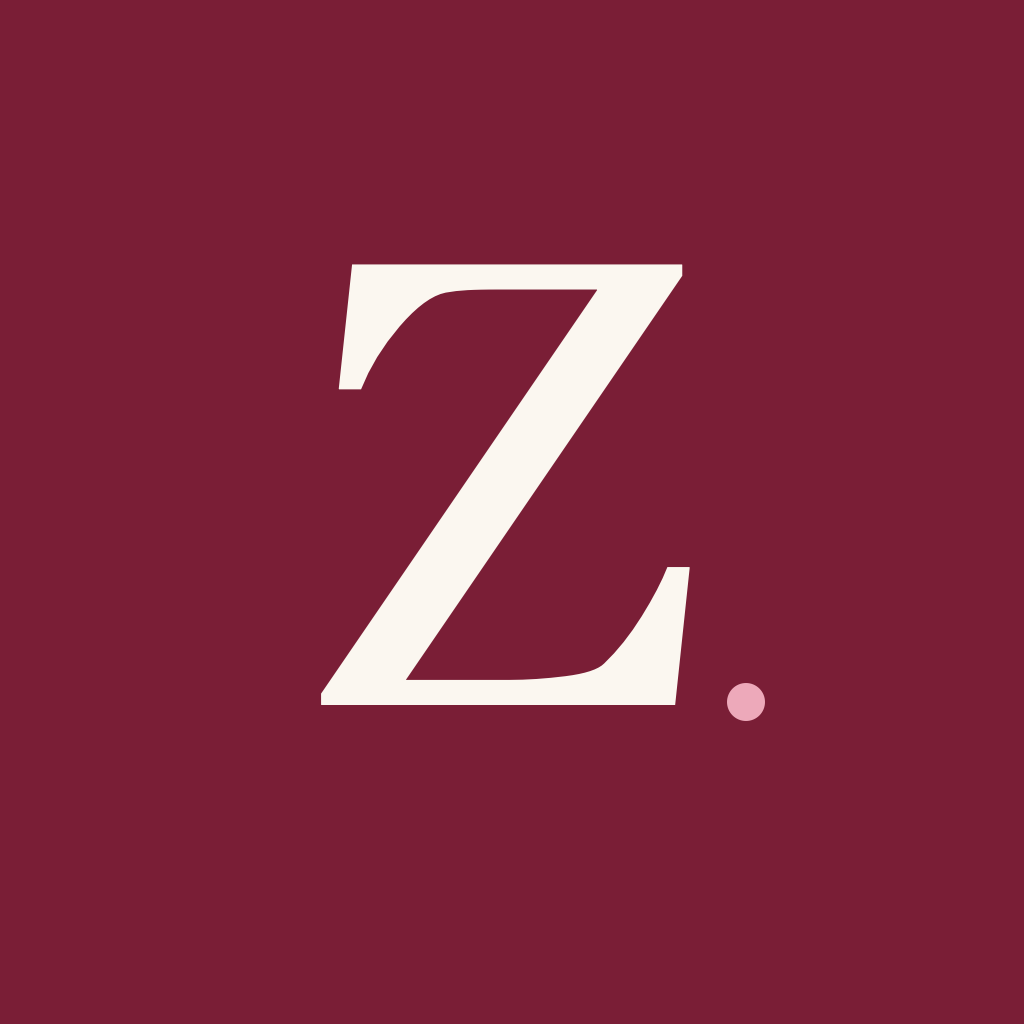
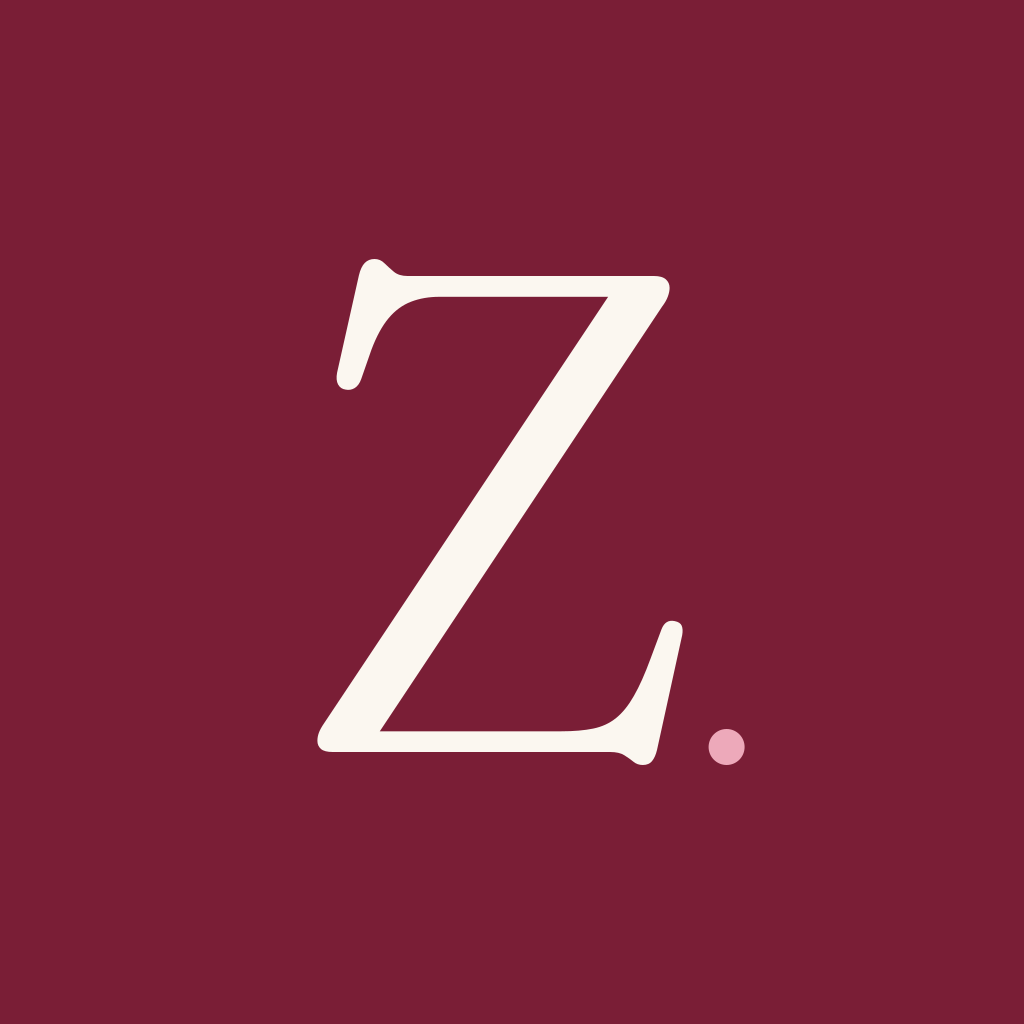
ZIV partout : icônes en vraie police Fraunces, réglages web déplacés de motek.* vers ziv.*, docs et commentaires sans KAPARA ni MOTEK
- Icône, favicon et logo redessinés depuis la police (plus de texte dépendant des polices installées), favicon 32 px qui montrait encore l'ancien M.
- Couleur de page web ivoire (thème Ivoire) au lieu du blanc.
- Migration unique des clés localStorage motek.* vers ziv.* (compte de démo, thème, langue, ville, formule conservés).
- Docs Supabase / Google mises à jour pour ziv-demo.vercel.app.

Claude-Session: https://claude.ai/code/session_01KSbKKK6PyfE8g78X4oWEzz

diff --git a/apps/mobile/src/storage-rename.ts b/apps/mobile/src/storage-rename.ts
@@ -1,0 +1,27 @@
+/**
+ * The app was renamed (MOTEK → ZIV) on 26/11/2026. On the web demo, settings
+ * and demo accounts were saved under `motek.*` keys: move them once to `ziv.*`
+ * so nobody loses their account, theme or language. Imported first in
+ * app/_layout.tsx, before any module reads storage. Native builds were never
+ * released under the old name, so only the web needs this.
+ */
+const OLD = 'motek.';
+const NEW = 'ziv.';
+
+try {
+  if (typeof localStorage !== 'undefined') {
+    const old: string[] = [];
+    for (let i = 0; i < localStorage.length; i++) {
+      const k = localStorage.key(i);
+      if (k?.startsWith(OLD)) old.push(k);
+    }
+    for (const k of old) {
+      const next = NEW + k.slice(OLD.length);
+      const v = localStorage.getItem(k);
+      if (v !== null && localStorage.getItem(next) === null) localStorage.setItem(next, v);
+      localStorage.removeItem(k);
+    }
+  }
+} catch { /* storage unavailable: nothing to move */ }
+
+export {};

diff --git a/apps/mobile/public/index.html b/apps/mobile/public/index.html
@@ -9,13 +9,13 @@
     <meta name="apple-mobile-web-app-capable" content="yes" />
     <meta name="mobile-web-app-capable" content="yes" />
     <meta name="apple-mobile-web-app-status-bar-style" content="default" />
-    <meta name="theme-color" content="#FFFFFF" />
+    <meta name="theme-color" content="#FBF7F0" />
     <link rel="apple-touch-icon" href="/apple-touch-icon.png" />
     <link rel="icon" type="image/svg+xml" href="/favicon.svg" />
     <link rel="icon" type="image/png" sizes="32x32" href="/favicon-32.png" />
     <link rel="manifest" href="/manifest.webmanifest" />
     <style id="expo-reset">
-      html, body { height: 100%; background: #FFFFFF; }
+      html, body { height: 100%; background: #FBF7F0; }
       body { overflow: hidden; }
       #root { display: flex; height: 100%; flex: 1; }
     </style>

diff --git a/apps/mobile/src/i18n/index.ts b/apps/mobile/src/i18n/index.ts
@@ -13,8 +13,8 @@ function webChoice(): LocaleCode | undefined {
   if (Platform.OS !== 'web' || typeof location === 'undefined') return undefined;
   try {
     const q = new URLSearchParams(location.search).get('lang') as LocaleCode | null;
-    if (q && SUPPORTED_LOCALES.includes(q)) { localStorage.setItem('motek.lang', q); return q; }
-    const saved = localStorage.getItem('motek.lang') as LocaleCode | null;
+    if (q && SUPPORTED_LOCALES.includes(q)) { localStorage.setItem('ziv.lang', q); return q; }
+    const saved = localStorage.getItem('ziv.lang') as LocaleCode | null;
     return saved && SUPPORTED_LOCALES.includes(saved) ? saved : undefined;
   } catch { return undefined; }
 }

diff --git a/apps/mobile/src/premium/store.ts b/apps/mobile/src/premium/store.ts
@@ -34,7 +34,7 @@ export type PaywallReason = 'like' | 'liveFilters' | 'picks' | 'seeLikes' | 'rew
 export const openPaywall = (reason: PaywallReason = 'browse') => router.push({ pathname: '/premium', params: { reason } });
 
 const KEY = ['plan'] as const;
-const LOCAL = 'motek.premium';
+const LOCAL = 'ziv.premium';
 const deviceTz = () => { try { return Intl.DateTimeFormat().resolvedOptions().timeZone || 'UTC'; } catch { return 'UTC'; } };
 const today = () => new Date().toLocaleDateString('en-CA');
 const nextMidnight = () => { const d = new Date(); d.setHours(24, 0, 0, 0); return d.toISOString(); };

diff --git a/apps/mobile/src/account/demo-account.ts b/apps/mobile/src/account/demo-account.ts
@@ -28,9 +28,9 @@ export interface DemoAccount {
 
 export type AccountStatus = 'loading' | 'signedIn' | 'signedOut';
 
-const CURRENT = 'motek.demo.current';
-const ACCOUNTS = 'motek.demo.accounts';
-const profileKey = (id: string) => `motek.demo.profile.${id}`;
+const CURRENT = 'ziv.demo.current';
+const ACCOUNTS = 'ziv.demo.accounts';
+const profileKey = (id: string) => `ziv.demo.profile.${id}`;
 
 let status: AccountStatus = 'loading';
 let current: DemoAccount | null = null;

diff --git a/apps/mobile/src/me/browse.ts b/apps/mobile/src/me/browse.ts
@@ -7,7 +7,7 @@ import { meStore, useMe } from './store';
  * profile's, free). Another city (a trip, a move to come) is a Plus/Cercle
  * feature; the picker checks the plan before setting it. Kept on this device.
  */
-const KEY = 'motek.browseRegion';
+const KEY = 'ziv.browseRegion';
 let browse: string | null = null;
 const listeners = new Set<() => void>();
 void kv.get(KEY).then((v) => { if (v) { browse = v; listeners.forEach((l) => l()); } });

diff --git a/apps/mobile/src/theme/index.tsx b/apps/mobile/src/theme/index.tsx
@@ -7,7 +7,7 @@ import { colors, DEFAULT_SCHEME, type ColorScheme, type ThemeColors } from '@kap
  * The choice is kept on this device (localStorage on the web; in memory on
  * native until a settings store exists).
  */
-const KEY = 'motek.appearance';
+const KEY = 'ziv.appearance';
 const read = (): ColorScheme => {
   try {
     // A shared link can pick the look: ?theme=noir or ?theme=blanc.

diff --git a/apps/mobile/src/ui/Icon.tsx b/apps/mobile/src/ui/Icon.tsx
@@ -13,7 +13,7 @@ export type IconName =
 const DIRECTIONAL: IconName[] = ['back', 'chevron'];
 
 /**
- * KAPARA's single icon set: 24 px grid, 1.75 stroke, rounded caps, drawn
+ * ZIV's single icon set: 24 px grid, 1.75 stroke, rounded caps, drawn
  * for the app (no icon font, no emoji). Decorative: the label next to an
  * icon, or the control's accessibilityLabel, carries the meaning.
  */

diff --git a/apps/mobile/src/demo/people.ts b/apps/mobile/src/demo/people.ts
@@ -1,5 +1,5 @@
 /**
- * KAPARA demo cast. Single source of truth for the offline app (src/demo) and
+ * ZIV demo cast. Single source of truth for the offline app (src/demo) and
  * the database seed (apps/api/prisma/seed.ts imports this file).
  *
  * Rules:

diff --git a/apps/mobile/app/_layout.tsx b/apps/mobile/app/_layout.tsx
@@ -1,3 +1,4 @@
+import '../src/storage-rename';
 import '../src/i18n';
 import { useFonts } from 'expo-font';
 // Typography: Fraunces (the logo's face) for titles, Inter for text; Hebrew: Frank Ruhl Libre and Heebo.

diff --git a/apps/mobile/assets/brand/generate.py b/apps/mobile/assets/brand/generate.py
@@ -8,8 +8,9 @@ Text is turned into paths, so generated assets never depend on installed fonts.
     python3 apps/mobile/assets/brand/generate.py   # name from brand.json
 
 PNG icons (icon-1024, apple-touch-icon 180, icon-192/512, favicon-32) are
-rendered from icon.svg / favicon.svg with any SVG renderer (opaque, no alpha
-for the iOS icon). In the app, src/ui/Logo.tsx draws the same mark with Fraunces.
+rendered too when cairosvg is installed (pip install cairosvg): square and
+opaque for iOS (it applies its own mask), rounded for the favicon.
+In the app, src/ui/Logo.tsx draws the same mark with Fraunces.
 """
 import json, os, re, sys
 from fontTools.ttLib import TTFont
@@ -47,7 +48,7 @@ def svg(w, h, body, bg=None, rx=0):
 
 def main(name):
     # Mark: the initial, optically centred slightly left to leave room for the dot.
-    letter, size, cx, cy = name[0].upper(), 560, 500, 512
+    letter, size, cx, cy = name[0].upper(), 680, 500, 512
     x0, y0, x1, y1 = glyphs(FRAUNCES_LIGHT, letter, size, 0, 0, pen_factory=BoundsPen)[0].bounds
     pen, _ = glyphs(FRAUNCES_LIGHT, letter, size, cx - (x0 + x1) / 2, cy - (y0 + y1) / 2, pen_factory=SVGPathPen)
     global MARK_D
@@ -67,11 +68,21 @@ def main(name):
 
     # Web app manifest (Android / desktop install; iPhone uses apple-touch-icon.png).
     json.dump({'name': name, 'short_name': name, 'start_url': '/', 'display': 'standalone',
-               'background_color': '#FFFFFF', 'theme_color': '#FFFFFF',  # app page colour (identity "Blanc")
+               'background_color': IVORY, 'theme_color': IVORY,  # light theme "Ivoire" page colour
                'icons': [{'src': '/icon-192.png', 'sizes': '192x192', 'type': 'image/png'},
                          {'src': '/icon-512.png', 'sizes': '512x512', 'type': 'image/png'},
                          {'src': '/favicon.svg', 'sizes': 'any', 'type': 'image/svg+xml'}]},
               open(f'{PUBLIC}/manifest.webmanifest', 'w'), indent=2, ensure_ascii=False)
+
+    try:
+        import cairosvg
+    except ImportError:
+        print('cairosvg not installed: PNG icons not re-rendered'); return
+    square, rounded = open(f'{OUT}/icon.svg').read(), open(f'{PUBLIC}/favicon.svg').read()
+    for src, path, px in ((square, f'{OUT}/icon-1024.png', 1024), (square, f'{PUBLIC}/apple-touch-icon.png', 180),
+                          (square, f'{PUBLIC}/icon-192.png', 192), (square, f'{PUBLIC}/icon-512.png', 512),
+                          (rounded, f'{PUBLIC}/favicon-32.png', 32)):
+        cairosvg.svg2png(bytestring=src.encode(), write_to=path, output_width=px, output_height=px)
 
 
 if __name__ == '__main__':

diff --git a/docs/benchmark.md b/docs/benchmark.md
@@ -1,6 +1,6 @@
 # Benchmark produit : applications de rencontre
 
-> Étude courte réalisée le 22 novembre 2026 pour cadrer les parcours de KAPARA (nom de travail).
+> Étude courte réalisée le 22 novembre 2026 pour cadrer les parcours de ZIV (ex-ZIV, nom de travail).
 > Objectif : retenir ce qui améliore vraiment la qualité des rencontres, sans copier la marque, le texte ni l'interface d'une autre application.
 
 ## 1. Méthode et sources
@@ -92,10 +92,10 @@
 | Modèle économique | Fonctions essentielles gratuites (JSwipe 2026, CMB) | Payer pour voir qui vous aime ou filtrer selon ses valeurs |
 | Introductions | Entremetteurs humains (SawYouAtSinai), recommandation d'amis (Tinder Matchmaker) | Profil exposé à des tiers sans l'accord de la personne présentée |
 
-## 4. Fonctions retenues pour KAPARA
+## 4. Fonctions retenues pour ZIV
 
-1. **Réactions ciblées** : tout premier contact s'accroche à un élément précis (photo, réponse, question de profil), avec un commentaire facultatif. Inspiré du principe de Hinge, interface propre à KAPARA.
-2. **Questions de profil ouvertes** propres à KAPARA (repas de Shabbat idéal, fête préférée, ce qui me fait rire, projet qui m'enthousiasme…), 3 affichées, modifiables à tout moment.
+1. **Réactions ciblées** : tout premier contact s'accroche à un élément précis (photo, réponse, question de profil), avec un commentaire facultatif. Inspiré du principe de Hinge, interface propre à ZIV.
+2. **Questions de profil ouvertes** propres à ZIV (repas de Shabbat idéal, fête préférée, ce qui me fait rire, projet qui m'enthousiasme…), 3 affichées, modifiables à tout moment.
 3. **Préférences souples + critères éliminatoires mutuels**, choisis critère par critère. **Gratuits pour tous**, y compris les critères liés à la pratique juive : filtrer selon ses valeurs n'est pas une option premium.
 4. **Questions de pratique juive nuancées** : options multiples plus « autre / je préfère ne pas répondre » et un champ libre ; cacherout distinguée maison / extérieur ; Shabbat et fêtes en gradations, pas en oui/non ; libellés adaptables par pays (les courants ne s'appellent pas pareil en France, aux États-Unis ou en Israël).
 5. **« Pour toi » en lot quotidien fini** (environ 8 à 12 profils, renouvelés chaque jour) avec une phrase d'explication par suggestion (« vous avez tous deux répondu… »). Pas de swipe : une carte éditoriale, puis « Réagir » ou « Pas maintenant ».
@@ -123,7 +123,7 @@
 | Affichage de l'activité récente et accusés de lecture | Pression sociale inutile |
 | Groupes et Double Date | Intéressant mais hors périmètre de la v1. Possible plus tard pour des événements communautaires |
 
-## 6. Décisions de conception pour KAPARA
+## 6. Décisions de conception pour ZIV
 
 1. **Un profil, trois univers** (Croisés, Pour toi, Live) qui partagent profil, préférences, réactions, matchs et blocages. Un blocage s'applique partout.
 2. **Les données sensibles ne sont jamais visibles par défaut.** Chaque champ de pratique juive a sa propre visibilité (*moi seul* par défaut, *mes matchs*, *tous les membres*), un écran qui explique à quoi il sert et un consentement explicite (RGPD art. 9). Il peut être retiré à tout moment, avec effet immédiat sur les filtres.
